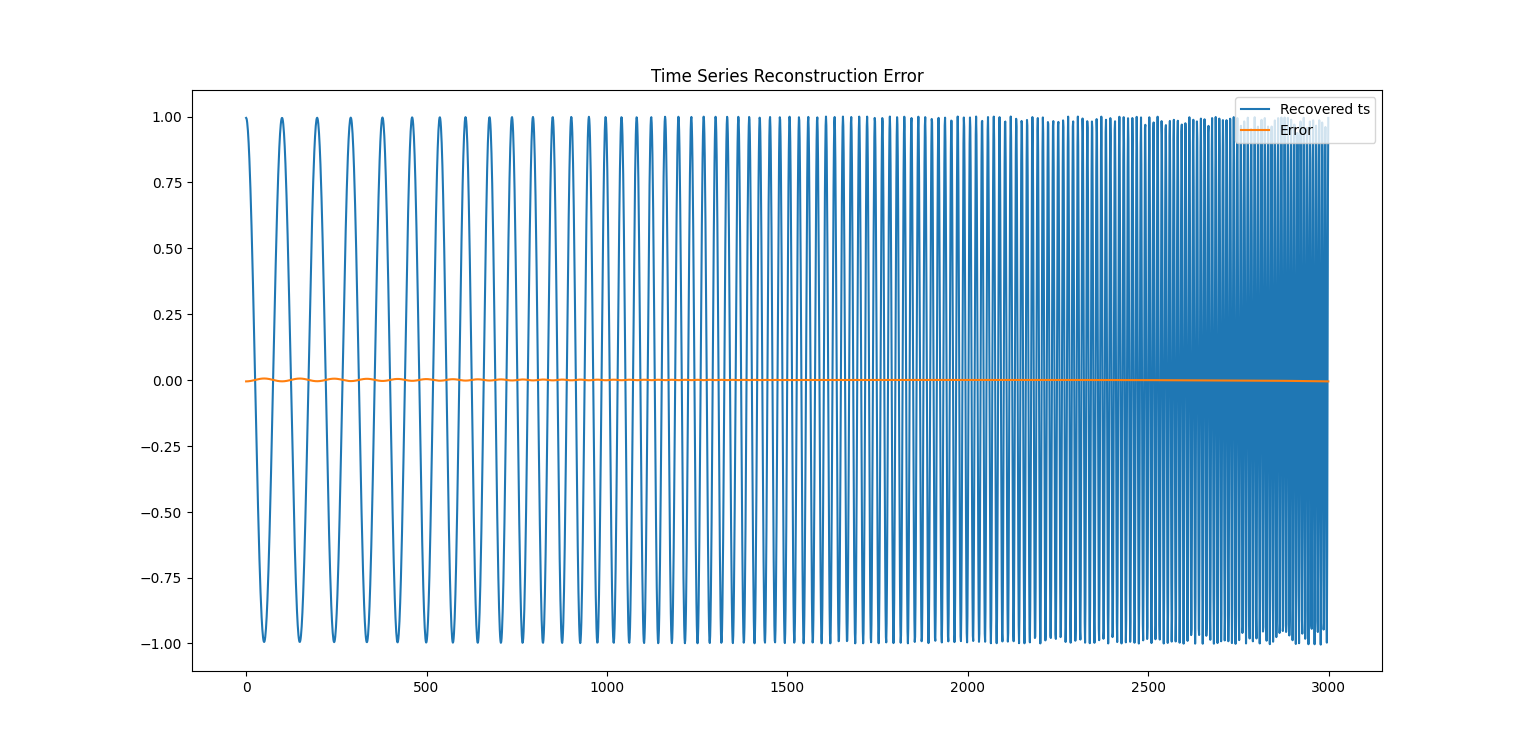
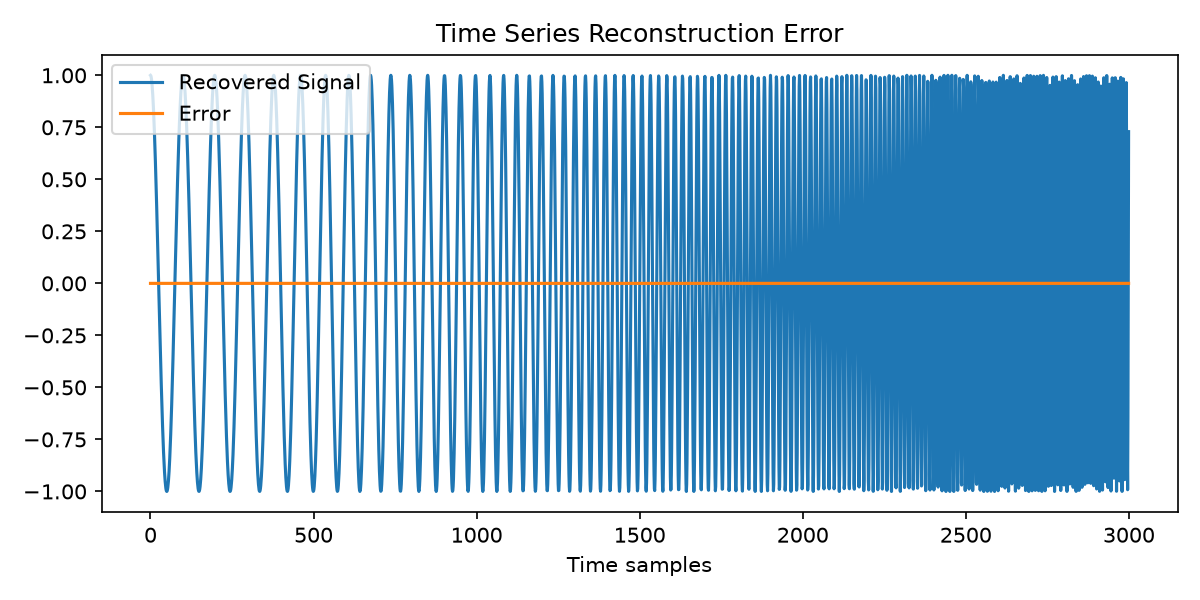
docs: refresh README example figures

diff --git a/test.py b/test.py
@@ -13,10 +13,15 @@
 # You should have received a copy of the GNU General Public License
 # along with this program.  If not, see <https://www.gnu.org/licenses/>.
 
+from pathlib import Path
+
 import numpy as np
 import matplotlib.pyplot as plt
 from scipy.signal import chirp
 from s import s_transform, inverse_s_transform
+
+
+IMAGE_DIR = Path(__file__).with_name("img")
 
 def test_s_transform():
     """
@@ -35,15 +40,22 @@ def test_s_transform():
     st = s_transform(
         x,
         sample_rate=fs,
-        freq_range=(0, 300),
-        freq_step=fs / x.size,
-        downsample=None,
     )
-    plt.figure()
-    plt.imshow(np.abs(st), origin='lower', aspect='auto')
-    plt.title('Original Spectrogram')
-    plt.colorbar()
+    display_mask = st.frequencies <= 300.0
+    fig, axis = plt.subplots(figsize=(8, 5))
+    image = axis.imshow(
+        np.abs(np.asarray(st)[display_mask]),
+        origin='lower',
+        aspect='auto',
+    )
+    axis.set_title('Original Spectrogram (0–300 Hz)')
+    axis.set_xlabel('Time samples')
+    axis.set_ylabel('Frequency bins')
+    fig.colorbar(image, ax=axis, label='Magnitude')
+    fig.tight_layout()
+    fig.savefig(IMAGE_DIR / 'original_spectrogram.png', dpi=150)
     plt.show()
+    plt.close(fig)
 
     # Inverse S-Transform
     x_rec, fft_rec = inverse_s_transform(st)
@@ -62,12 +74,16 @@ def test_s_transform():
     plt.show()
 
     # Reconstruction error
-    plt.figure()
-    plt.plot(x_rec_comp, label='Recovered Signal')
-    plt.plot(x - x_rec_comp, label='Error')
-    plt.title('Time Series Reconstruction Error')
-    plt.legend()
+    fig, axis = plt.subplots(figsize=(8, 4))
+    axis.plot(x_rec_comp, label='Recovered Signal')
+    axis.plot(x - x_rec_comp, label='Error')
+    axis.set_title('Time Series Reconstruction Error')
+    axis.set_xlabel('Time samples')
+    axis.legend()
+    fig.tight_layout()
+    fig.savefig(IMAGE_DIR / 'recovered_ts_error.png', dpi=150)
     plt.show()
+    plt.close(fig)
 
     # Spectrogram of recovered signal
     st_rec = s_transform(
@@ -76,11 +92,16 @@ def test_s_transform():
         freq_range=(0.0, 500.0),
         freq_step=fs / x_rec.size
     )
-    plt.figure()
-    plt.imshow(np.abs(st_rec), origin='lower', aspect='auto')
-    plt.title('Recovered Spectrogram')
-    plt.colorbar()
+    fig, axis = plt.subplots(figsize=(8, 5))
+    image = axis.imshow(np.abs(st_rec), origin='lower', aspect='auto')
+    axis.set_title('Recovered Spectrogram')
+    axis.set_xlabel('Time samples')
+    axis.set_ylabel('Frequency bins')
+    fig.colorbar(image, ax=axis, label='Magnitude')
+    fig.tight_layout()
+    fig.savefig(IMAGE_DIR / 'recovered_spectrogram.png', dpi=150)
     plt.show()
+    plt.close(fig)
 
 
 if __name__ == '__main__':
